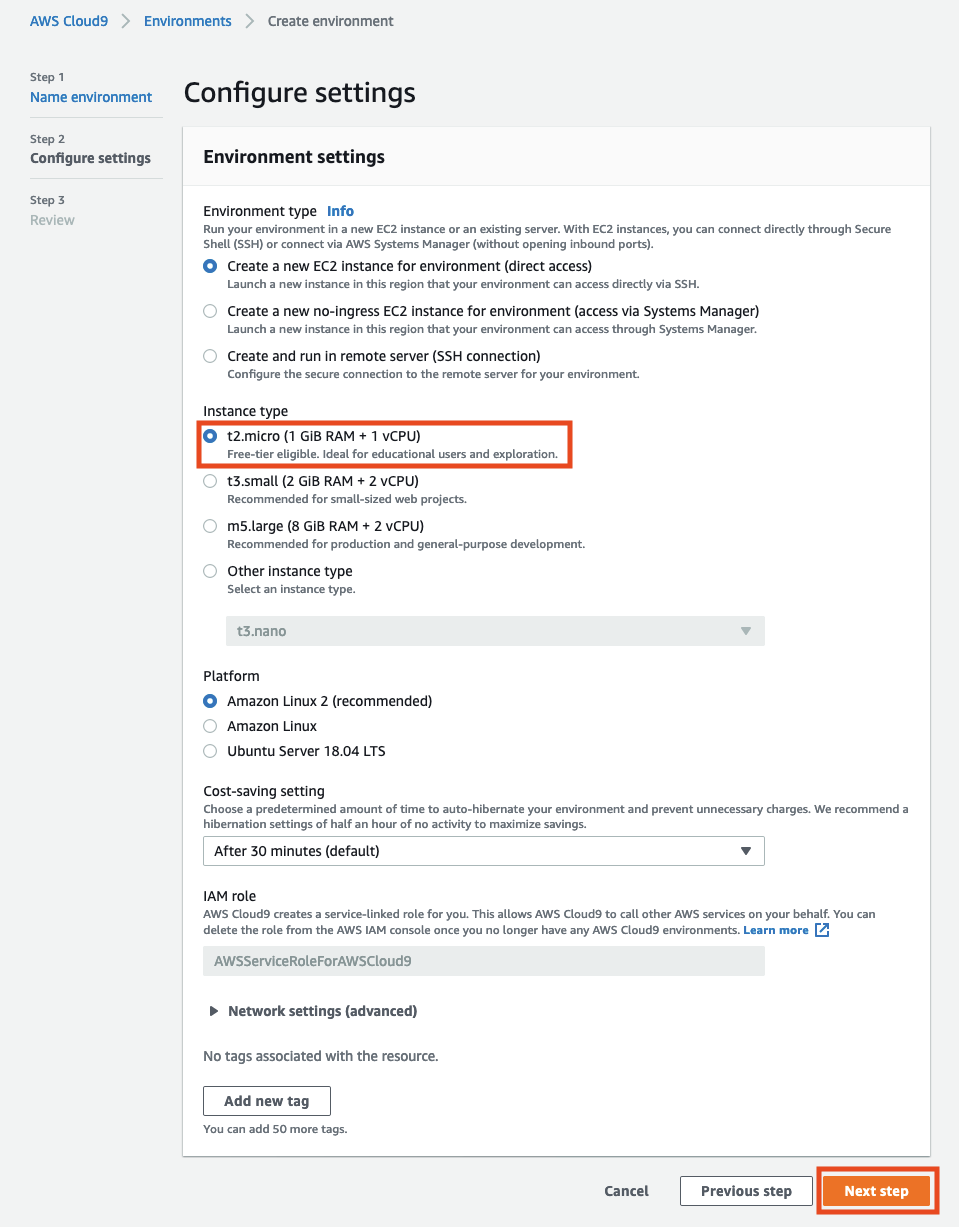
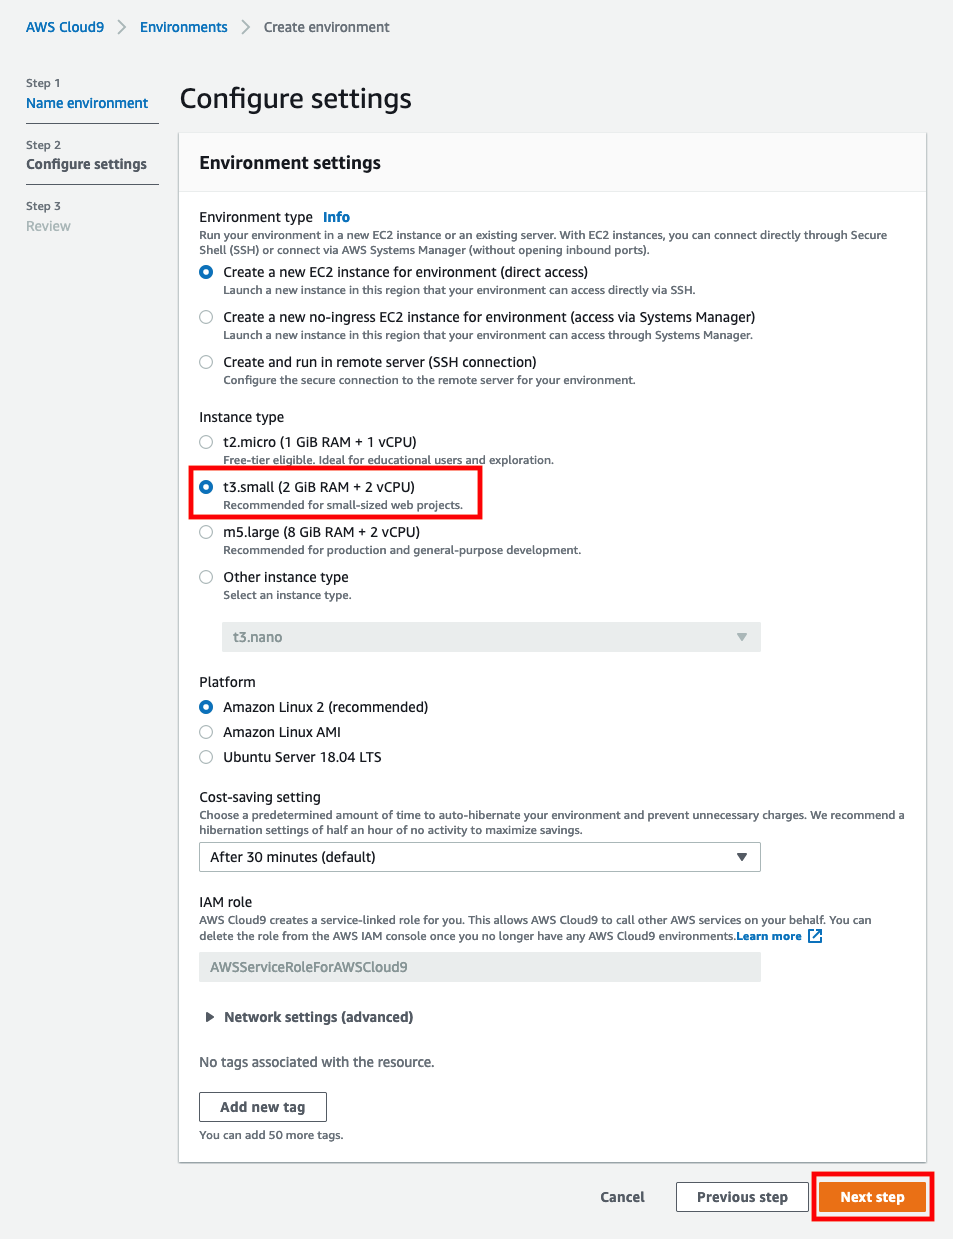
Update Cloud9 instance to t3.small to avoid error

diff --git a/workshop/content/Setup/AccountSetup.en.md b/workshop/content/Setup/AccountSetup.en.md
@@ -40,7 +40,7 @@ Your Cloud9 environment will have access to the same AWS resources as the user w
 4. Select **Next step**.
 
 5. In **Environment settings**:
-- Set the *Instance type* to **t2.micro (1 GiB RAM + 1 vCPU)**.
+- Set the *Instance type* to **t3.small (2 GiB RAM + 2 vCPU)**.
 - Leave all other defaults unchanged.
 
 ![Step 6](/images/c9-step6-b.png)
